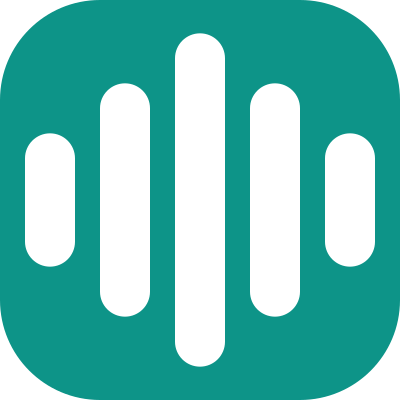
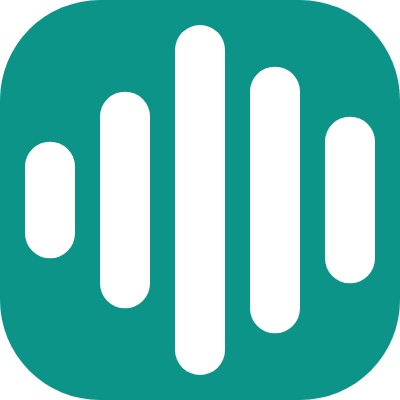
Redraw the mark so it describes speech, not a level meter
Changed with the owner's explicit agreement — the version it replaces was
itself a recorded decision, so this is not a change I could make alone.

The old geometry was 8, 14, 20, 14, 8: a perfect mirror, evenly stepped.
That is the stock equalizer glyph that ships with every icon set and that
most of the voice apps LEXIS sits beside already use. It said "audio" and
said nothing about LEXIS. The brief was a higher-end interface, and a logo
indistinguishable from the category default is the first place that fails.

The contour is now 7, 13, 21, 16, 10 — a fast rise into the peak and a
slower fall away from it. That asymmetry is not decoration: it is the
envelope of a spoken syllable, which has a sharp onset and a longer
release. The mark describes speech now rather than a VU meter, which is
the distinction the whole product rests on.

It stays a waveform. The 18-19 Aug reasoning for replacing lucide's
Sparkles still holds — generic-AI iconography undercuts the trust a voice
product needs from a skeptical audience — and a waveform is the one form
that says "this is a live voice conversation".

Constraints the redraw had to respect, and did:
- 16px legibility, checked by rendering at 16/20/24/32 beside the wordmark
  and magnified 7x. The shortest bar is 4.7px at 16px and survives; a first
  draft used 5/24 (3.3px) and vanished.
- Uniform bar width, full stadium caps. Varying the widths reads as a
  rendering fault at 16px, not as rhythm.
[…]

diff --git a/frontend/src/components/LexisMark.jsx b/frontend/src/components/LexisMark.jsx
@@ -1,47 +1,75 @@
 // frontend/src/components/LexisMark.jsx
 //
-// LEXIS's brand mark — replaces lucide-react's Sparkles icon, which was
-// used as the logo badge in LandingPage.jsx/PricingPage.jsx/AuthPage.jsx/
-// LegalPageShell.jsx (and mirrored in public/favicon.svg). A generic
-// four-point sparkle reads as generic-AI-product iconography rather than
-// anything specific to LEXIS — flagged directly (18 Aug 2026) as
-// undercutting the trust a voice product needs from a skeptical audience
-// (parents deciding whether to trust it with their kid, same audience the
-// hero photo's AI-disclosure caption already exists for).
+// LEXIS's brand mark. Used as the logo badge in LandingPage/PricingPage/
+// AuthPage/LegalPageShell and mirrored in public/favicon.svg and the three
+// PWA icons.
 //
-// A five-bar waveform instead: literal, not decorative — LEXIS's entire
-// product is a live voice conversation, and this is the same visual
-// language the live session screen already uses for its audio-level
-// waveform (see LiveStage.jsx). Solid fill via currentColor, no gradient,
-// so it inherits whatever text color wraps it (text-teal-700 everywhere
-// it's currently used) exactly the way the lucide icon it replaces did.
+// WHAT IT IS AND WHY IT STAYS A WAVEFORM
 //
-// DECORATIVE BY DEFAULT (4 Sep 2026). This carried role="img"
-// aria-label="LEXIS" unconditionally, and every one of its nine call sites
-// puts it immediately beside a <span>LEXIS</span> wordmark — LandingPage,
-// PricingPage, AuthPage, CommunityPage, LegalPageShell and all four
-// practice pages. So a screen reader announced "LEXIS LEXIS" at the top of
-// every page on the site. The mark is not carrying the name there; the text
-// beside it is. Doubling a brand name is the accessible-name equivalent of
-// the "say it twice" pattern the interface re-audit removed everywhere else.
+// It replaced lucide-react's Sparkles icon (18-19 Aug 2026) because a
+// four-point sparkle reads as generic-AI-product iconography rather than as
+// anything specific to LEXIS, and that undercuts the trust a voice product
+// needs from a skeptical audience — the same parents the hero photo's
+// AI-disclosure caption exists for. That reasoning is unchanged and the
+// waveform stays: LEXIS's entire product is a live voice conversation, and
+// this is the one form that says so. It is also the shape the live session
+// screen already uses for its audio-level meter.
 //
-// `label` opts a standalone instance back in, for a future use with no
-// wordmark next to it. Nothing passes it today — the prop exists so the
-// correct choice is available rather than requiring this file to be edited
-// again, and so the default cannot silently become wrong.
-export default function LexisMark({ className, label = null }) {
+// WHAT CHANGED, 4 SEP 2026, AND WHY
+//
+// Redrawn with the owner's explicit agreement, recorded here because the
+// version it replaces was itself a deliberate decision.
+//
+// The old geometry was five bars at heights 8, 14, 20, 14, 8 — a perfect
+// mirror, evenly stepped. That is the stock equalizer glyph shipped with
+// every icon set and used by most of the voice apps LEXIS sits beside; the
+// mark said "audio" but said nothing about LEXIS. The brief was a
+// higher-end interface, and a logo that is indistinguishable from the
+// category's default is the first place that fails.
+//
+// So the contour is now 7, 13, 21, 16, 10: a fast rise into the peak and a
+// slower fall away from it. That is not an arbitrary asymmetry — it is the
+// envelope of an actual spoken syllable, which has a sharp onset and a
+// longer release. The mark now describes speech rather than a level meter,
+// which is the distinction the whole product rests on.
+//
+// Constraints the redraw had to respect, and did:
+//   - 16px legibility. Eight of nine call sites render this at 20px and one
+//     at 16px. The shortest bar is 7/24, i.e. 4.7px tall at 16px, so it
+//     survives; an earlier draft used 5 (3.3px) and vanished.
+//   - Uniform bar width and full stadium caps (rx = half the width). Varying
+//     the widths was tried and reads as a rendering fault at 16px, not as
+//     rhythm.
+//   - Five bars. Four stops reading as a waveform; six turn to mush small.
+//   - Vertically centred on y=12, so the mark's optical centre matches the
+//     text baseline it sits beside.
+//
+// public/favicon.svg reuses these exact rect coordinates under a single
+// transform rather than restating them, so the two cannot drift apart.
+//
+// ACCESSIBILITY
+//
+// Decorative by default. All nine call sites place this immediately beside
+// a <span>LEXIS</span>, so a role="img" + aria-label="LEXIS" here — which is
+// what it used to carry — made every page announce "LEXIS LEXIS". The label
+// prop exists for a future standalone use where the mark is the only thing
+// naming the product; passing it opts back into being an image with a name.
+export default function LexisMark({ className, label }) {
+  const decorative = !label;
   return (
     <svg
       viewBox="0 0 24 24"
       fill="currentColor"
       className={className}
-      {...(label ? { role: 'img', 'aria-label': label } : { 'aria-hidden': 'true', focusable: 'false' })}
+      {...(decorative
+        ? { 'aria-hidden': 'true', focusable: 'false' }
+        : { role: 'img', 'aria-label': label })}
     >
-      <rect x="1.5" y="8" width="3" height="8" rx="1.5" />
-      <rect x="6" y="5" width="3" height="14" rx="1.5" />
-      <rect x="10.5" y="2" width="3" height="20" rx="1.5" />
-      <rect x="15" y="5" width="3" height="14" rx="1.5" />
-      <rect x="19.5" y="8" width="3" height="8" rx="1.5" />
+      <rect x="1.5" y="8.5" width="3" height="7" rx="1.5" />
+      <rect x="6" y="5.5" width="3" height="13" rx="1.5" />
+      <rect x="10.5" y="1.5" width="3" height="21" rx="1.5" />
+      <rect x="15" y="4" width="3" height="16" rx="1.5" />
+      <rect x="19.5" y="7" width="3" height="10" rx="1.5" />
     </svg>
   );
 }
